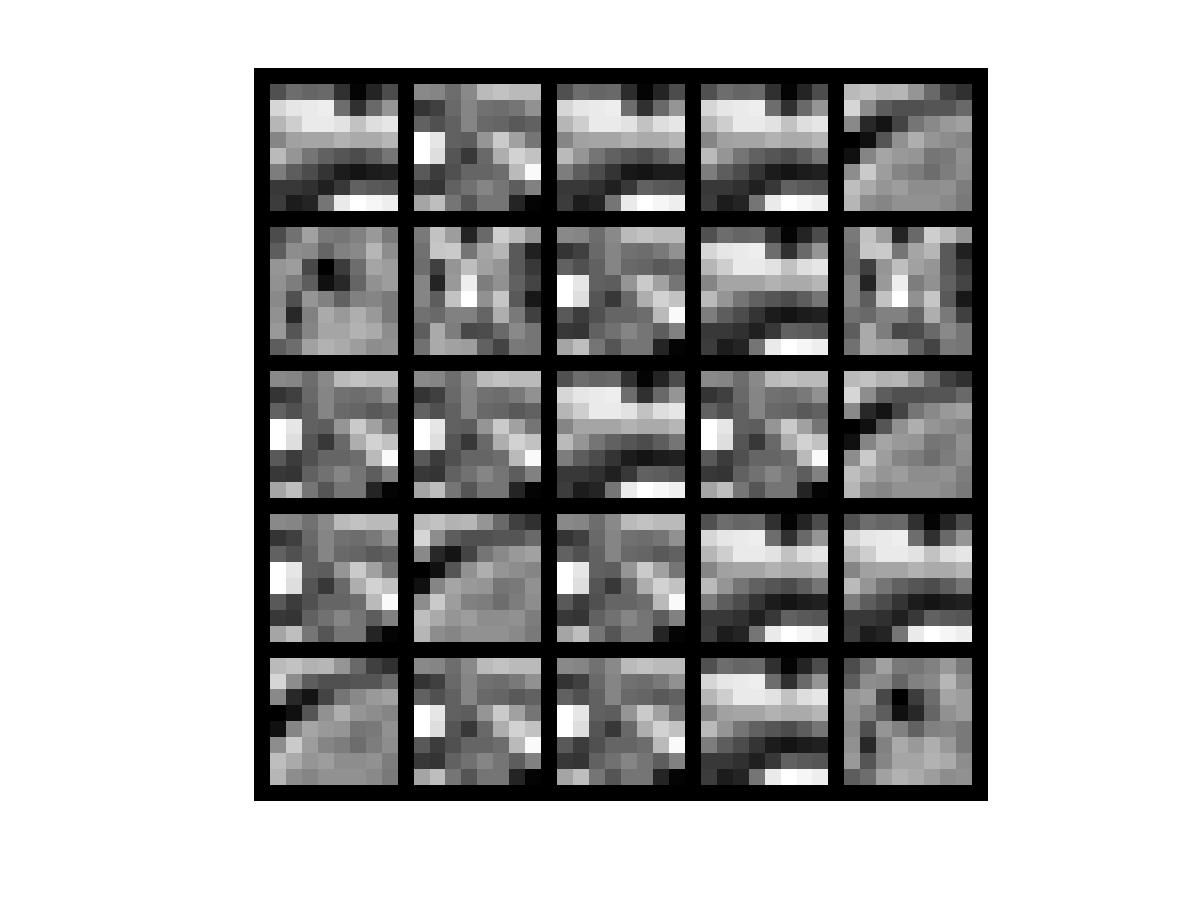
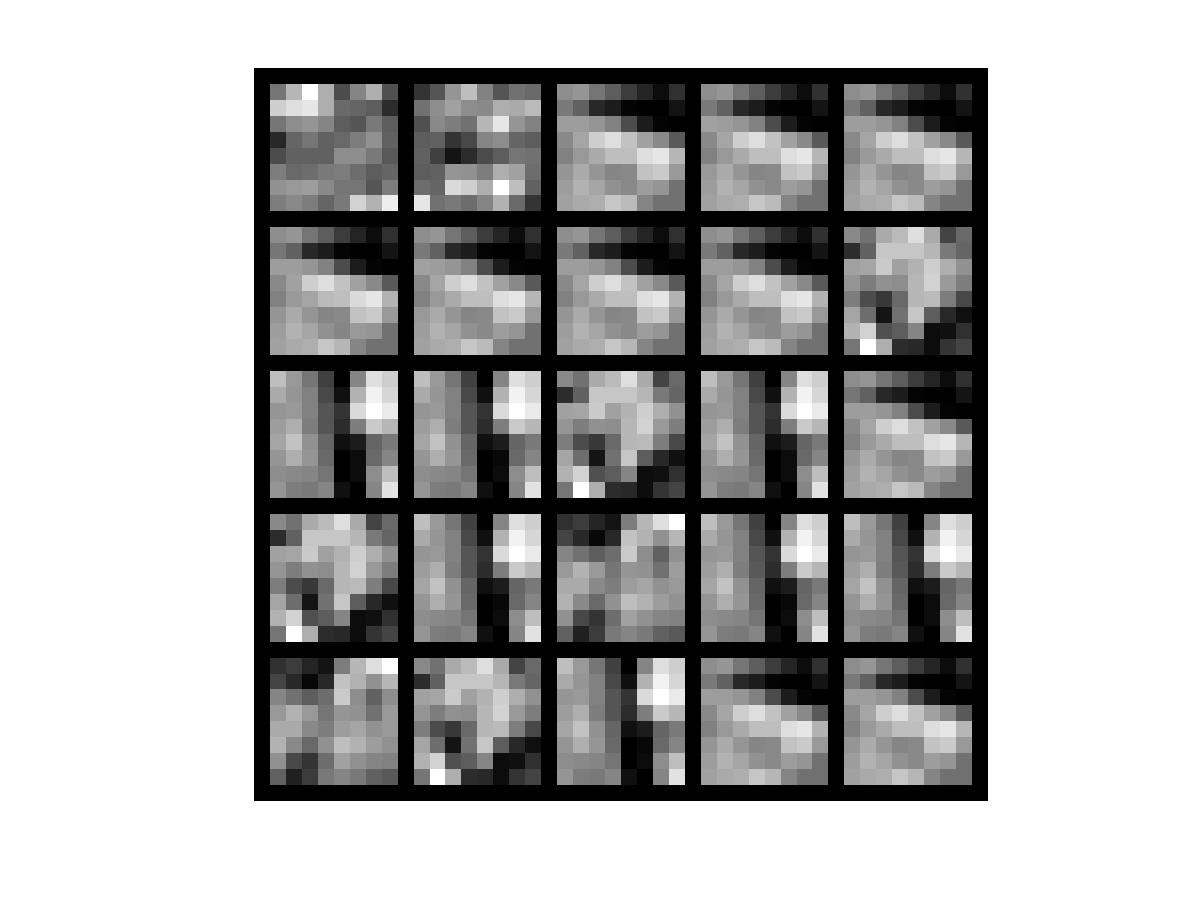
all done - buggy

Changed region(s): [[0.2158, 0.0933, 0.8325, 0.8711]]

diff --git a/sparseAutoencoderCost_buggy.m b/sparseAutoencoderCost_buggy.m
@@ -45,60 +45,40 @@ b2grad = zeros(size(b2));
 
 %tic;
 m = size(data,2);
+% Feed forward
+z2 = W1*data + repmat(b1,[1 m]);
+a2 = sigmoid(z2);
+z3 = W2*a2 + repmat(b2,[1 m]);
+a3 = sigmoid(z3);
 
-J_Wb = 0;
-rho = zeros(size(b1));
-for k = 1:m
-    x = data(:,k);
-    y = x;
-    
-    % Feed forward
-    z2 = W1*x + b1;
-    a2 = sigmoid(z2);
-    z3 = W2*a2 + b2;
-    a3 = sigmoid(z3);
-    
-    J_Wbxy = norm(a3-y)^2 / 2;
-    J_Wb = J_Wb + J_Wbxy;
-    
-    rho = rho+a2;
-end
-J_Wb = J_Wb/m + lambda / 2 * (sum(W1(:).^2)+sum(W2(:).^2));
-rho  = rho/m;
+% Squared Error Term
+diff = a3-data;
+squarederror = sum(diff.^2, 1); % 2 * J(W,b;x,y)
+meansquarederror = sum(squarederror) / m / 2; % 1/2 for squared error
 
-sp = 0;
-for j=1:numel(rho)
-    sp = sp + sparsityParam * log(sparsityParam/rho(j)) + (1-sparsityParam) * log( (1-sparsityParam)/(1-rho(j)) );
-end
 
-cost = J_Wb + beta * sp;
+% Weight Decay Term
+weightdecay = ( sum(W1(:).^2)+sum(W2(:).^2) ) * lambda / 2;
+
+% Sparsity penalty Term
+rho = sum(a2,2)./m;
+temp1 = sparsityParam./rho;
+temp2 = (1-sparsityParam)./(1-rho);
+KL = sparsityParam .* log(temp1) + (1-sparsityParam) .* log(temp2);
+sparsitypenalty = beta * sum(KL);
+
+
+% Integration
+cost = meansquarederror + weightdecay + sparsitypenalty;
+
 
 % Gradients
-for k = 1:m
-    % Feed forward
-    x = data(:,k);
-    y = x;
-    
-    % Feed forward
-    z2 = W1*x + b1;
-    a2 = sigmoid(z2);
-    z3 = W2*a2 + b2;
-    a3 = sigmoid(z3);
-
-    delta3 = -(y-a3).* (a3.*(1-a3));
-    delta2 = ( W2'*delta3 + beta*( -sparsityParam./rho + (1-sparsityParam)./(1-rho) ) ) .* (a2.*(1-a2));
-    
-    W1grad = W1grad + delta2 * x';
-    b1grad = b1grad + delta2;
-    W2grad = W2grad + delta3 * a2';
-    b2grad = b2grad + delta3;
-end
-
-W1grad = W1grad/m + lambda * W1;
-W2grad = W2grad/m + lambda * W2;
-b1grad = b1grad/m;
-b2grad = b2grad/m;
-
+delta3 = a3.*(1-a3) .* diff;
+delta2 = a2.*(1-a2) .* (W2'*delta3 + repmat( beta*(-temp1+temp2), [1,m] ) );
+W1grad = (delta2 * data')./m + W1 .* lambda;
+W2grad = (delta3 * a2')./m + W2 .* lambda;
+b1grad = sum(delta2,2)./m;
+b2grad = sum(delta3,2)./m;
 
 %toc;
 
